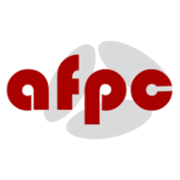
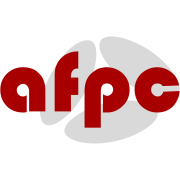
ajout de pleins de trucs

diff --git a/jekyll-src/_layouts/frontpage.html b/jekyll-src/_layouts/frontpage.html
@@ -11,19 +11,11 @@ format: frontpage
 
 
 <div class="row t60">
-    <h3>Présentation de l'association</h3>
-    <h1>A propos de l'AFPC</h1>
-<p>L'AFPC (Association Française pour la Programmation par Contraintes) est association de loi 1901.
-     Sa vocation est de réunir toutes les personnes s'intéressant, professionnellement ou non, à 
-     la <a href="http://fr.wikipedia.org/wiki/Programmation_par_contraintes">programmation par contraintes</a> :
-      son étude, ses fondements théoriques, ses applications, son évolution, son enseignement et sa diffusion.
-       Les domaines couverts incluent : la programmation en logique, la programmation par contraintes et leurs 
-       extensions, la logique, les problèmes de satisfaction de contraintes discrets et continus (SAT, CSP), 
-       la programmation mathématique et l'optimisation combinatoire.</p>
-       
-       <p>L'AFPC est née le 21 juin 2004 de la fusion de l'AFPLC (Association Française de Programmation Logique et
-            de Programmation par Contraintes) et de la communauté animée par la conférence JNPC (Journées sur la 
-            résolution pratique de Problèmes NP-Complets).</p>
+    <!-- <h3>Présentation de l'association</h3> -->
+    <h1>Une association pour la promotion de la Programmation par Contraintes</h1>
+    {% for contenu in site.data.presentation.content %}
+       {{ contenu | markdownify }}
+    {% endfor %}
 </div>
 
 {% comment %}

diff --git a/jekyll-src/_includes/_masthead.html b/jekyll-src/_includes/_masthead.html
@@ -4,7 +4,7 @@
 	<div class="row">
 		<div class="small-12 columns">
 			<a id="logo2" href="{{ '/' | absolute_url }}" title="{{ site.title }} – {{ site.slogan }}">
-				<img src="{{ site.url }}{{ site.baseurl }}/assets/img/logo-afpc.png" alt="{{ site.title }} – {{ site.slogan }}">
+				<img src="{{ site.url }}{{ site.baseurl }}/assets/img/{{ site.logo }}" alt="{{ site.title }} – {{ site.slogan }}">
 			</a>
 			<a id="logo2" href="{{ '/' | absolute_url }}" title="{{ site.title }} – {{ site.slogan }}">
 				{{ site.slogan}}
@@ -55,9 +55,9 @@
 	<div class="row">
 		<div class="small-12 columns">
 			<a id="logo2" href="{{ '/' | absolute_url }}" title="{{ site.title }} – {{ site.slogan }}">
-				<img src="{{ site.url }}{{ site.baseurl }}/assets/img/logo-afpc.png" alt="{{ site.title }} – {{ site.slogan }}">
+				<img src="{{ site.url }}{{ site.baseurl }}/assets/img/{{ site.logo }}" alt="{{ site.title }} – {{ site.slogan }}">
 			</a></br>
-			<a id="masthead-slogan" href="{{ '/' | absolute_url }}" title="{{ site.title }} – {{ site.slogan }}">
+			<a id="masthead-slogan" style="background-color:rgba(255,255,255,0.8)" href="{{ '/' | absolute_url }}" title="{{ site.title }} – {{ site.slogan }}">
 			{{ page.slogan }}
 			</a>
 		</div><!-- /.small-12.columns -->

diff --git a/jekyll-src/_includes/_footer.html b/jekyll-src/_includes/_footer.html
@@ -15,6 +15,11 @@
               {{ site.description }}
               <a href="{{ site.url }}{{ site.baseurl }}/presentation/">{{ site.data.language.more }}</a>
             </p>
+
+            <p class="shadow-black">
+              Contribuer
+              <a href="{{ site.url }}{{ site.baseurl }}/contribuer/">{{ site.data.language.more }}</a>
+            </p>
           </div><!-- /.large-6.columns -->
 
 

diff --git a/jekyll-src/pages/presentation/default.md b/jekyll-src/pages/presentation/default.md
@@ -10,21 +10,6 @@ header:
 permalink: "/presentation/"
 ---
 
-L'AFPC (Association Française pour la Programmation par Contraintes) est
-association de loi 1901. Sa vocation est de réunir toutes les personnes
-s'intéressant, professionnellement ou non, à la [programmation par
-contraintes](http://fr.wikipedia.org/wiki/Programmation_par_contraintes) : son
-étude, ses fondements théoriques, ses applications, son évolution, son
-enseignement et sa diffusion. Les domaines couverts incluent : la
-programmation en logique, la programmation par contraintes et leurs
-extensions, la logique, les problèmes de satisfaction de contraintes discrets
-et continus (SAT, CSP), la programmation mathématique et l'optimisation
-combinatoire.
-
-
-
-L'AFPC est née le 21 juin 2004 de la fusion de l'AFPLC (Association Française
-de Programmation Logique et de Programmation par Contraintes) et de la
-communauté animée par la conférence JNPC (Journées sur la résolution pratique
-de Problèmes NP-Complets).
-
+{% for contenu in site.data.presentation.content %}
+   {{ contenu }}
+{% endfor %}

diff --git a/jekyll-src/_posts/offres/2022-07-11-doctorat22IMT+PolyMtl.md b/jekyll-src/_posts/offres/2022-07-11-doctorat22IMT+PolyMtl.md
@@ -5,6 +5,7 @@ layout: page
 #
 title: PhD Position
 subheadline: IMT Atlantique (France) and Polytechnique de Montréal (Canada)
+teaser: PhD position in co-supervising between IMT Atlantique (France) and Polytechnic of Montréal (Canada)
 categories:
   - offres
 tag: 
@@ -20,7 +21,7 @@ header:
   image_fullwidth: imt+polymtl.svg
 ---
 
-PhD position in co-supervising between IMT Atlantique (France) and Polytechnic of Montréal (Canada). The PhD contract is expected to start in **November/December 2022**.
+The PhD contract is expected to start in **November/December 2022**.
 
 The details are also online from the IMT website ([subject 9](https://www.imt.fr/limt-recrute-10-nouveaux-doctorants-en-ia-dans-le-cadre-du-programme-doctoral-aiimt/)).
 

diff --git a/jekyll-src/pages/contribuer.md b/jekyll-src/pages/contribuer.md
@@ -1,0 +1,14 @@
+---
+layout: page-fullwidth
+show_meta: false
+title: "Contribuer"
+teaser: "Pour ajouter votre page, post ou balise à ce site web."
+header:
+   image_fullwidth: "header_typewriter.jpg"
+permalink: "/contribuer/"
+---
+
+Pour contribuer à ce siteweb, 2 modèles sont à votre dispositions :
+
+- un [modèle pour les annonces]({{ site. url }}/news/divers/modeleAnnonce) en tout genre (exposés, conférences, ...)
+- un [modèle pour les offres d'emploi]({{ site. url }}/news/offres/modeleOffre) (stage, doctorat, post doctorat, poste, ...)

diff --git a/jekyll-src/_posts/divers/2022-07-21-modeleAnnonce.md b/jekyll-src/_posts/divers/2022-07-21-modeleAnnonce.md
@@ -9,7 +9,6 @@ teaser: "Petit teaser"
 categories:
   - divers
 #  - exposé # pour les exposés invités comme l'annonce faite pour l'éxposé invité à CP 2022
-#  - offres # pour les annonces concernant les stages, les doctorats, post-doctorats, postes...
 #  - conférences # pour les conférences
 #tag:
 #  - important # pour apparaître sur la page d'accueil

diff --git a/jekyll-src/pages/jfpc.md b/jekyll-src/pages/jfpc.md
@@ -18,7 +18,7 @@ Les JFPC se veulent un lieu convivial de rencontres, de discussions et d'échang
 
 ## JFPC 2023 à Strasbourg
 
-![banniere-jfpc]({{ site.url }}{{ site.baseurl }}/images/banniere-JFPC-2023.jpg)
+{% include image name = "banniere-JFPC-2023.png" alt = "banniere-jfpc" %}
 
 ### Historique des précédentes éditions
 
